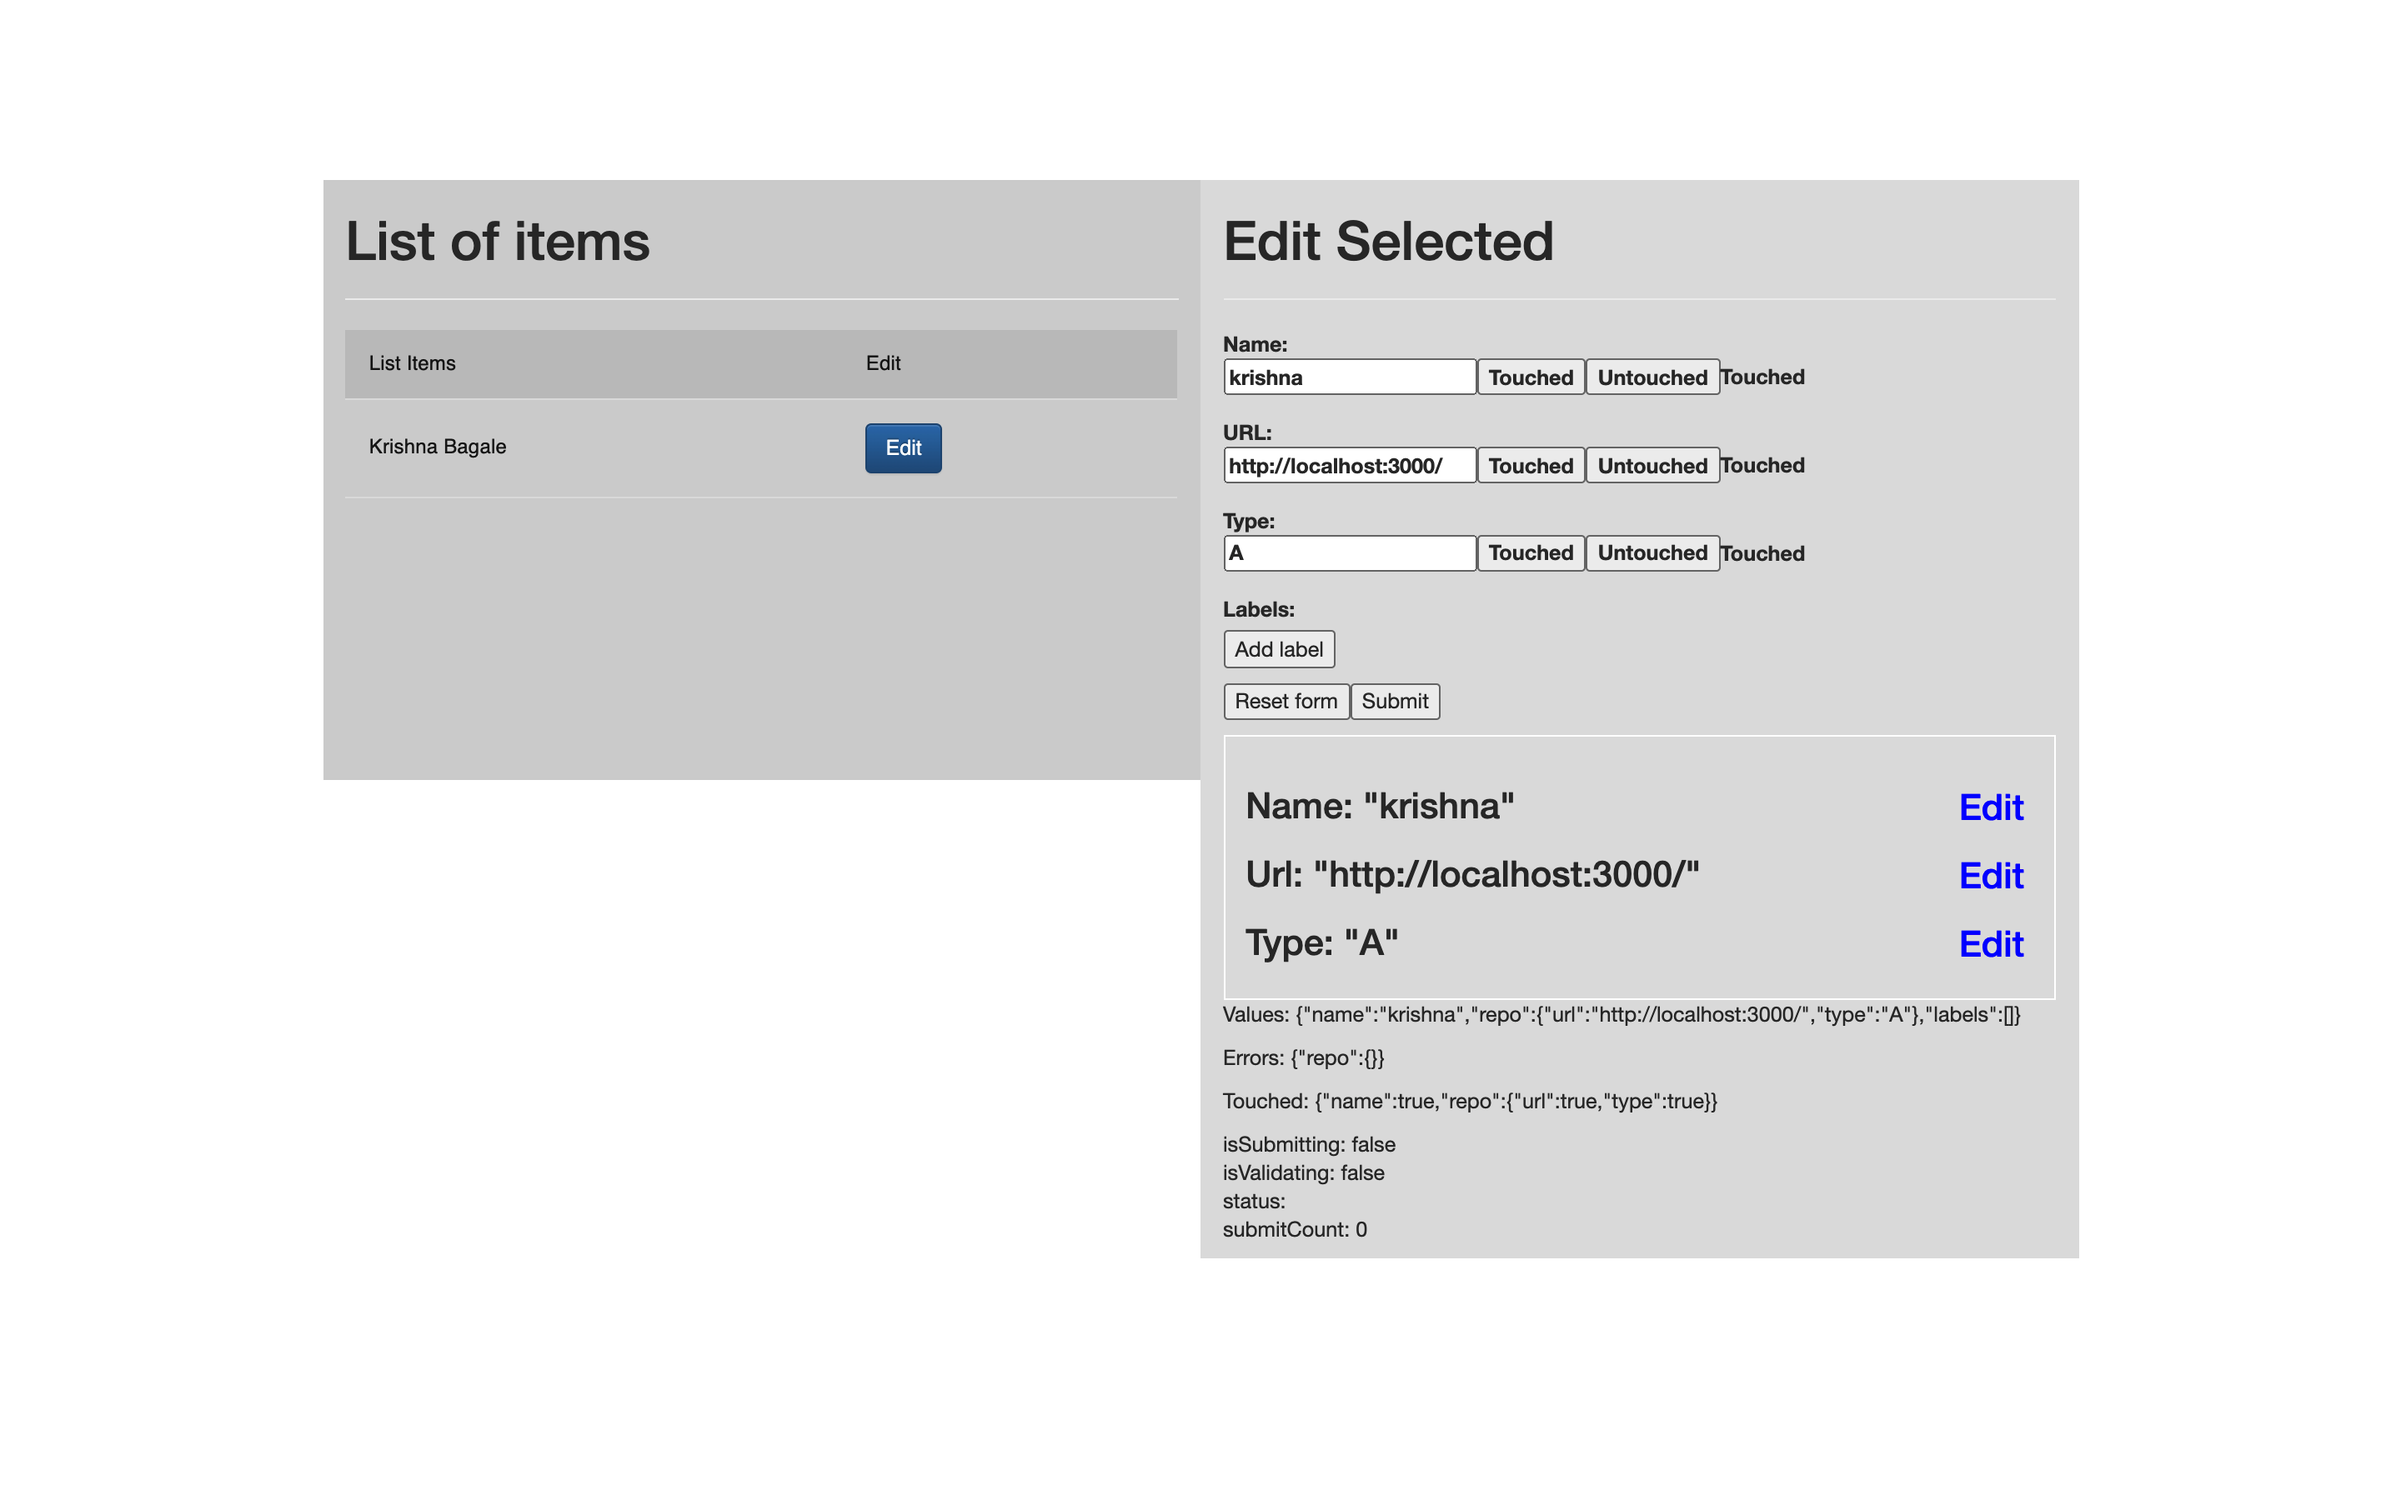
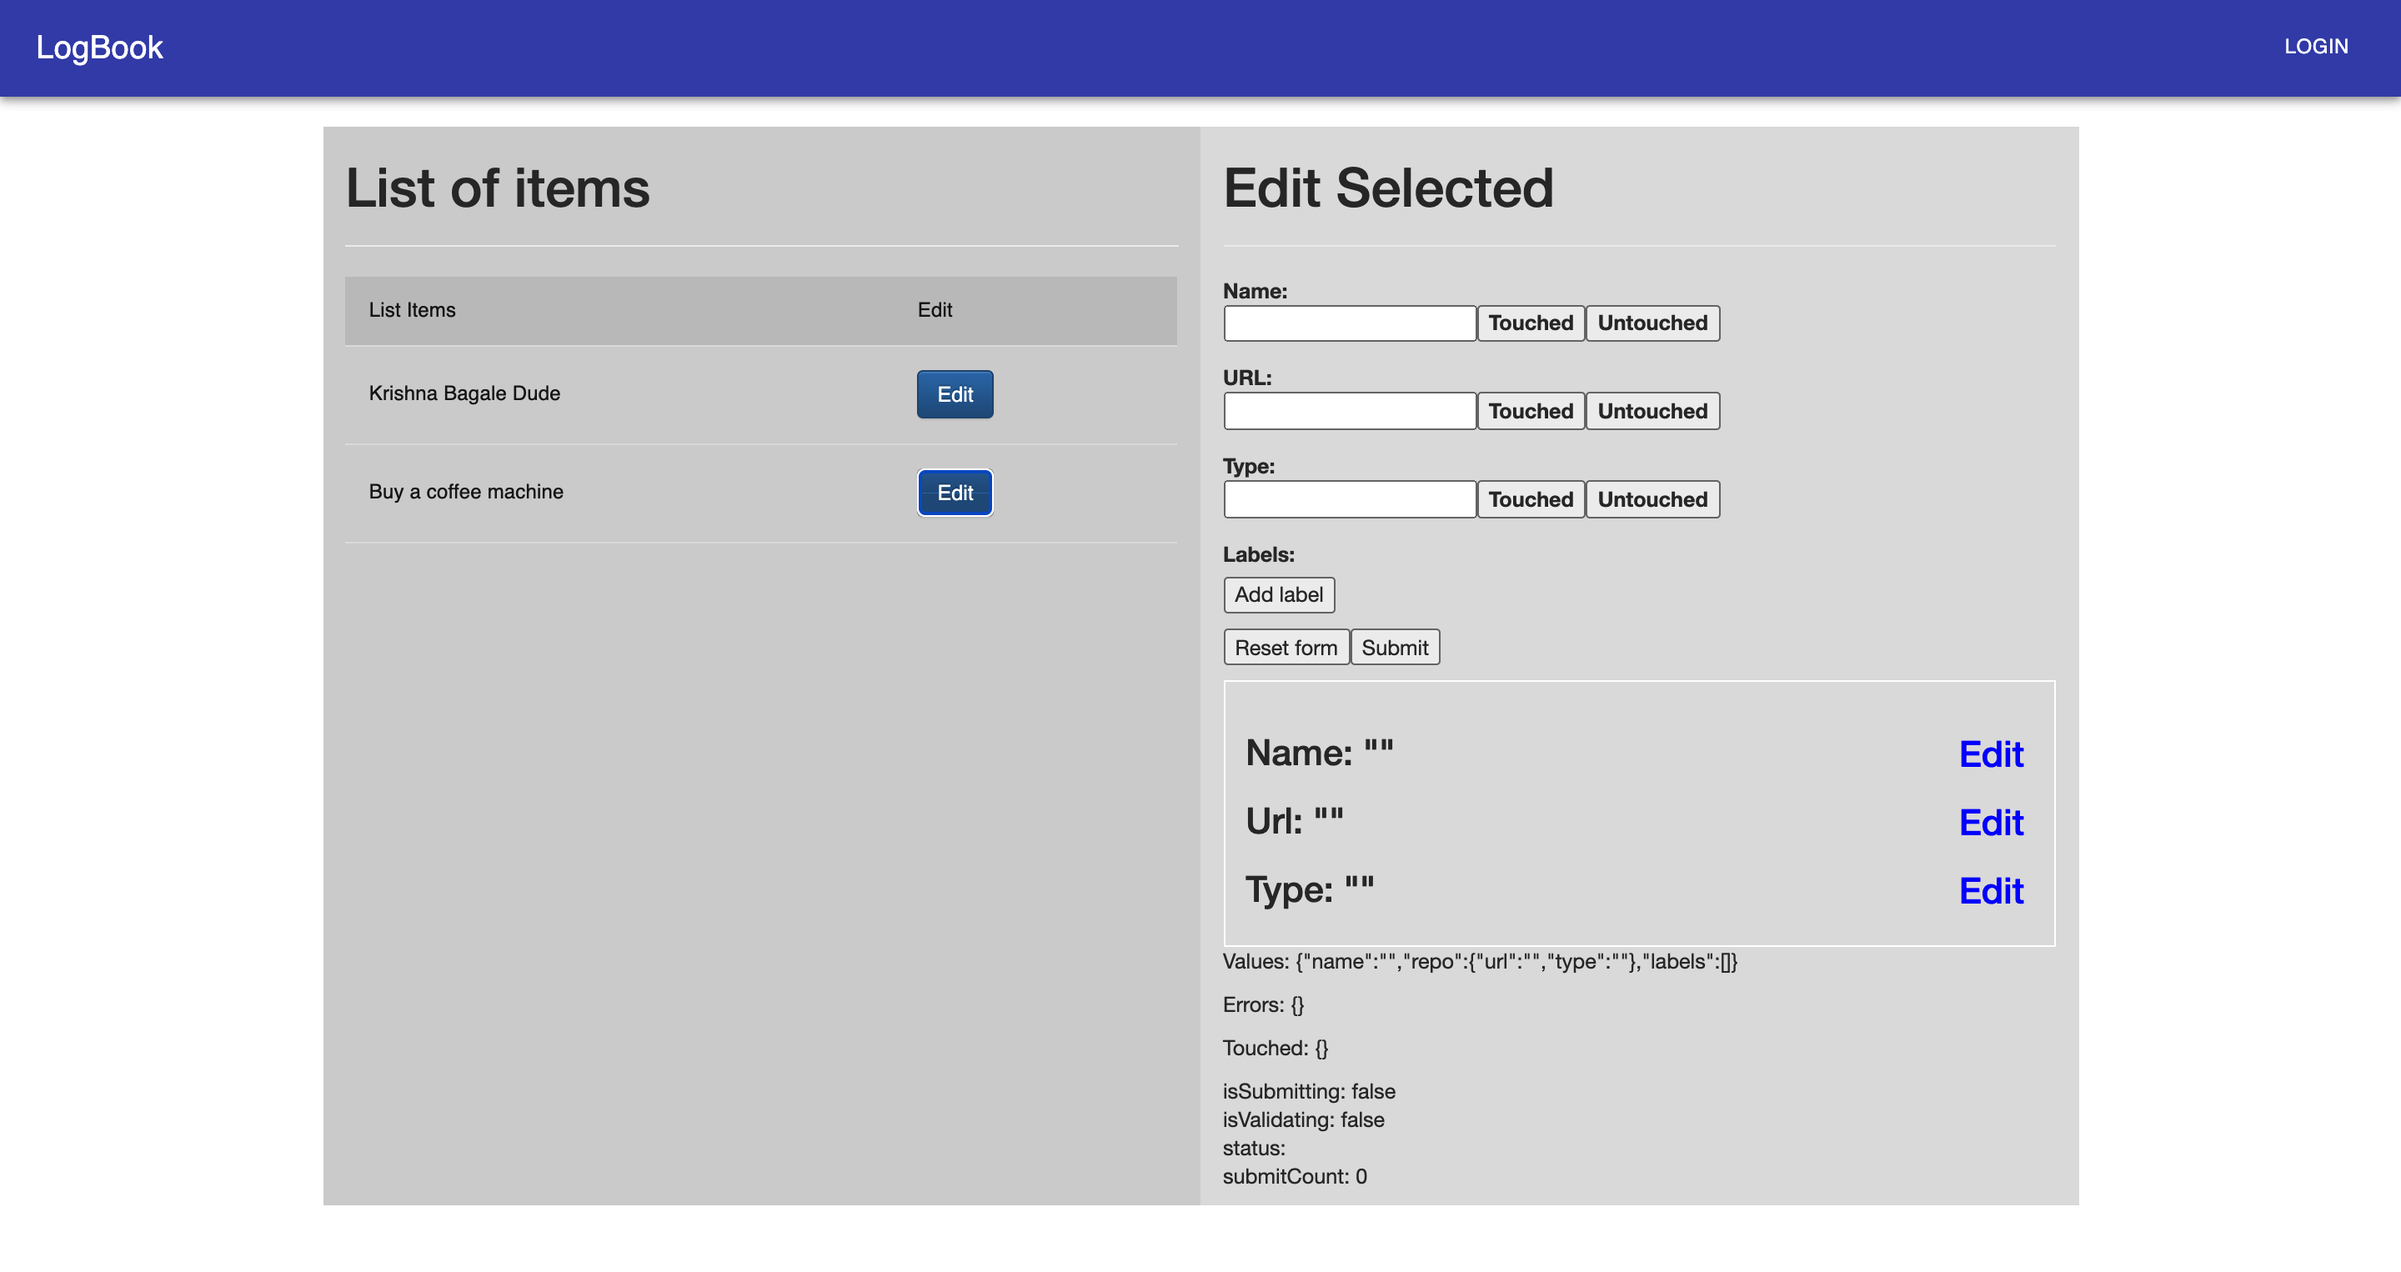
Material NavBar, Checking Actions on Postman

diff --git a/src/components/ButtonAppBar.tsx b/src/components/ButtonAppBar.tsx
@@ -1,0 +1,37 @@
+import React from 'react';
+import { makeStyles } from '@material-ui/core/styles';
+import AppBar from '@material-ui/core/AppBar';
+import Toolbar from '@material-ui/core/Toolbar';
+import Typography from '@material-ui/core/Typography';
+import Button from '@material-ui/core/Button';
+import IconButton from '@material-ui/core/IconButton';
+import MenuIcon from '@material-ui/icons/Menu';
+
+const useStyles = makeStyles((theme) => ({
+    root: {
+        flexGrow: 1,
+    },
+    menuButton: {
+        marginRight: theme.spacing(2),
+    },
+    title: {
+        flexGrow: 1,
+    },
+}));
+
+export default function ButtonAppBar() {
+    const classes = useStyles();
+
+    return (
+        <div className={classes.root}>
+            <AppBar position="static">
+                <Toolbar>
+                    <Typography variant="h4" className={classes.title}>
+                        LogBook
+                    </Typography>
+                    <Button color="inherit">Login</Button>
+                </Toolbar>
+            </AppBar>
+        </div>
+    );
+}

diff --git a/src/App.tsx b/src/App.tsx
@@ -1,6 +1,6 @@
 import React, { useState, useEffect } from 'react';
 import { useFormik } from 'formik';
-
+import ButtonAppBar from './components/ButtonAppBar';
 import FormikForm from './FormikForm';
 import axios from 'axios';
 import {
@@ -79,15 +79,16 @@ const App: React.FC = (props) => {
 
   return (
     <React.Fragment>
+      <ButtonAppBar />
       <Container className="container-fluid container-margin">
         <Row className="row">
-          <Col className="col-sm-6" style={{ backgroundColor: 'rgb(212, 212, 212)', minHeight: '400px' }}>
+          <Col className="col-sm-6" style={{ backgroundColor: 'rgb(212, 212, 212)', minHeight: '719px' }}>
             <h1>List of items</h1><hr />
             <Table>
               <TableHead>
                 <TableRow style={{ backgroundColor: '#c5c5c5', color: 'white', }}>
                   <TableCell>List Items</TableCell>
-                  <TableCell >Edit</TableCell>
+                  <TableCell >Action</TableCell>
                 </TableRow>
               </TableHead>
               <TableBody>

diff --git a/src/App.css b/src/App.css
@@ -1,6 +1,7 @@
 .container-margin {
-    padding-top: 120px;
+    padding-top: 20px;
 }
+
 .items .namespan {
-    float:right
+    float: right
 }
